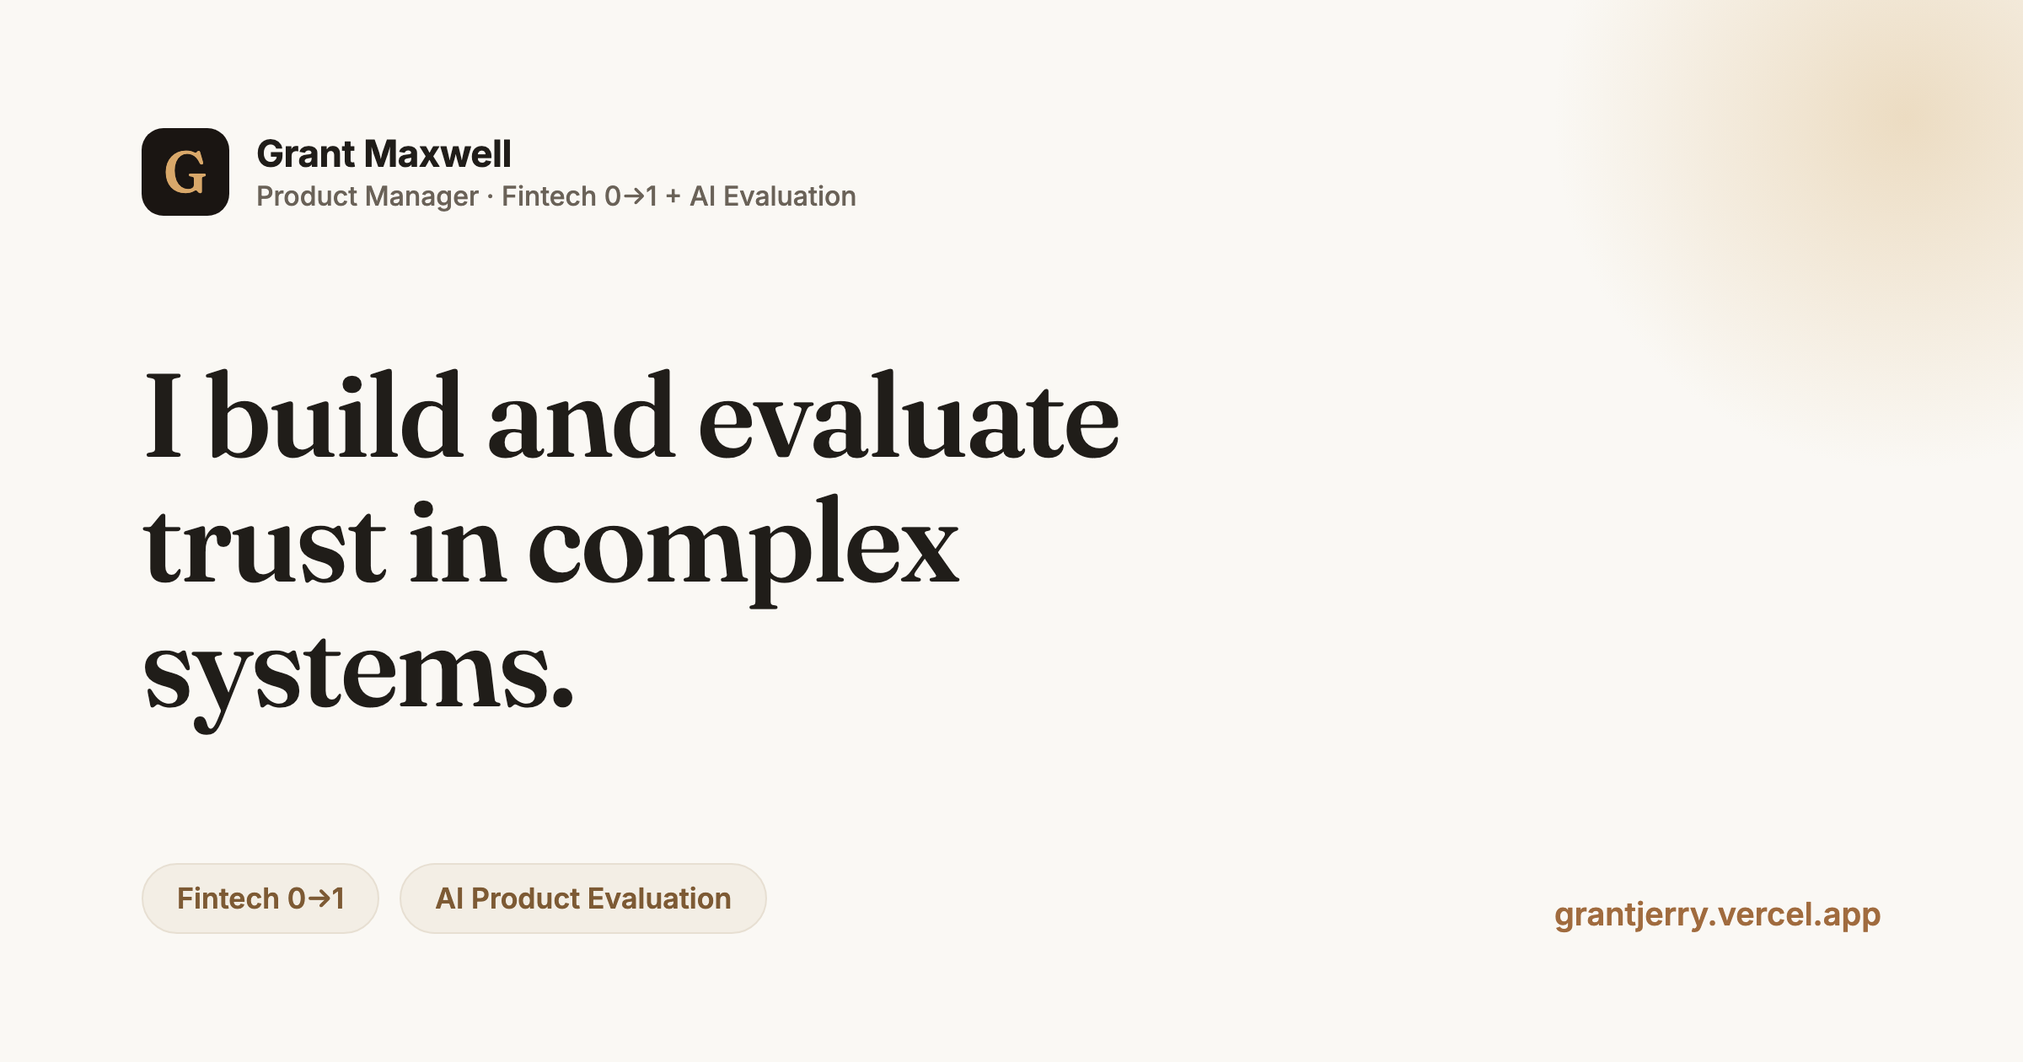
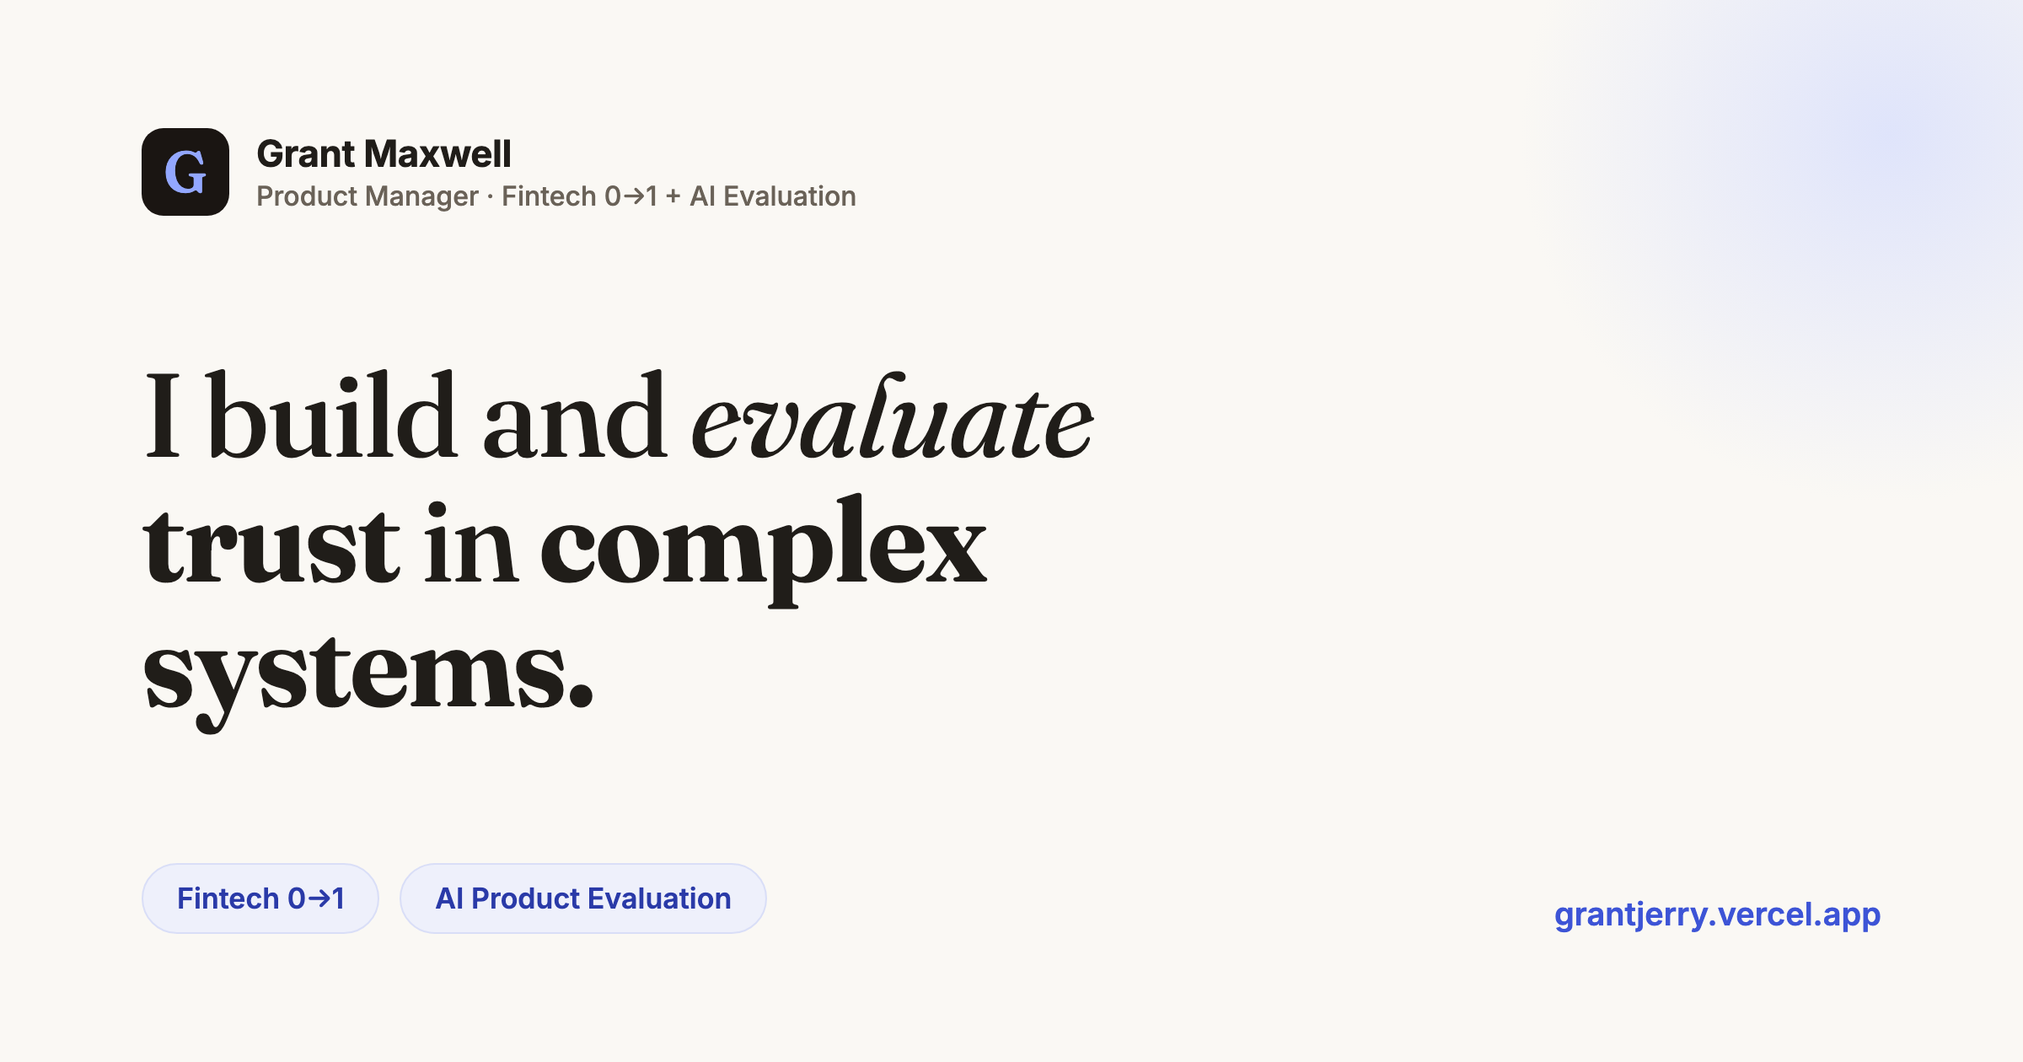
feat: evolve portfolio (Progano-style structure + blue photo-forward visual)
Structure (Option A):
- Builder/Bridge/Trust self-framing triad in the hero
- Outcome-driven case-study titles
- Capabilities ("Where I'm most useful") section
- How-I-work process block + FAQ
- Testimonial slot (placeholder to fill)

Visual (Option B):
- Indigo-blue accent (kept the warm paper bg to avoid a clone)
- Mixed-weight/italic Fraunces headline
- Photo-forward hero (photo slot at assets/photo.jpg)
- Regenerated blue favicon + OG image

diff --git a/index.html b/index.html
@@ -19,7 +19,7 @@
   <link rel="apple-touch-icon" href="/assets/icon-180.png" />
   <link rel="preconnect" href="https://fonts.googleapis.com" />
   <link rel="preconnect" href="https://fonts.gstatic.com" crossorigin />
-  <link href="https://fonts.googleapis.com/css2?family=Fraunces:opsz,wght@9..144,400;9..144,560&family=Inter:wght@400;500;600;700&display=swap" rel="stylesheet" />
+  <link href="https://fonts.googleapis.com/css2?family=Fraunces:ital,opsz,wght@0,9..144,400..700;1,9..144,400..700&family=Inter:wght@400;500;600;700&display=swap" rel="stylesheet" />
   <link rel="stylesheet" href="/styles/main.css" />
 </head>
 <body>
@@ -28,29 +28,36 @@
       <a class="brand" href="/">Grant Maxwell</a>
       <button class="nav-toggle" id="navToggle" aria-label="Menu">☰</button>
       <div class="nav-links" id="navLinks">
+        <a href="#capabilities">Capabilities</a>
         <a href="#work">Work</a>
-        <a href="#about">About</a>
-        <a href="#skills">Skills</a>
-        <a class="nav-cta" href="#contact">Contact</a>
+        <a href="#approach">Approach</a>
+        <a href="#faq">FAQ</a>
+        <a class="nav-cta" href="#contact">Connect</a>
       </div>
     </div>
   </nav>
 
+  <!-- Hero -->
   <header class="hero">
     <div class="wrap">
-      <p class="eyebrow reveal">Product Manager · Fintech 0→1 + AI Evaluation</p>
-      <h1 class="reveal">I build and evaluate trust in complex systems.</h1>
-      <p class="lead reveal">From a user's net worth to an AI model's output, I turn messy, high-stakes systems into
-        products people can rely on. Right now I'm owning <strong>Arzìqi</strong> — a wealth command center for African
-        owner-operators — from concept to launch.</p>
-      <div class="hero-chips reveal">
-        <span class="chip"><span class="dot"></span>Fintech 0→1</span>
-        <span class="chip"><span class="dot"></span>AI Product Evaluation</span>
-        <span class="chip"><span class="dot"></span>Research → Design → Delivery</span>
-      </div>
-      <div class="hero-cta reveal">
-        <a class="btn btn-primary" href="/arziqi">View the Arzìqi case study →</a>
-        <a class="btn btn-ghost" href="#contact">Get in touch</a>
+      <div class="hero-grid">
+        <div>
+          <p class="eyebrow reveal">Product Manager · Fintech 0→1 + AI Evaluation</p>
+          <h1 class="reveal">I build and <span class="i">evaluate</span> <span class="b">trust</span> in <span class="b">complex systems.</span></h1>
+          <div class="triad reveal">
+            <div class="row"><span class="k">Builder</span><span class="v">I take products from concept to launch — research, design, and delivery.</span></div>
+            <div class="row"><span class="k">Bridge</span><span class="v">I sit between the founder's vision, the engineers, and the people who'll actually use it.</span></div>
+            <div class="row"><span class="k">Trust</span><span class="v">I care most about whether people can rely on what we ship — a user's net worth, or an AI's output.</span></div>
+          </div>
+          <div class="hero-cta reveal">
+            <a class="btn btn-primary" href="/arziqi">View the Arzìqi case study →</a>
+            <a class="btn btn-ghost" href="#contact">Get in touch</a>
+          </div>
+        </div>
+        <div class="hero-photo reveal">
+          <!-- Add your photo as /assets/photo.jpg (portrait, ~4:5). Placeholder shown until then. -->
+          <div class="ph">Add your photo →<br />assets/photo.jpg</div>
+        </div>
       </div>
     </div>
   </header>
@@ -69,15 +76,58 @@
     </div>
   </section>
 
-  <!-- Get to know me -->
-  <section style="padding-top:20px;">
+  <!-- Capabilities -->
+  <section id="capabilities">
     <div class="wrap">
-      <p class="section-label reveal">Get to know me &amp; my work</p>
-      <div class="navgrid reveal">
-        <a class="navtile" href="#about"><span class="ic">👋</span><span><span class="t">About me &amp; how I work</span><span class="d">The switcher story, and how I operate</span></span><span class="arr">→</span></a>
-        <a class="navtile" href="#work"><span class="ic">📌</span><span><span class="t">Selected work</span><span class="d">Arzìqi &amp; AI model evaluation</span></span><span class="arr">→</span></a>
-        <a class="navtile" href="#skills"><span class="ic">🧰</span><span><span class="t">What I do</span><span class="d">Product · AI evaluation · craft</span></span><span class="arr">→</span></a>
-        <a class="navtile" href="#contact"><span class="ic">✉</span><span><span class="t">Let's talk</span><span class="d">Open to PM roles in fintech &amp; AI</span></span><span class="arr">→</span></a>
+      <p class="section-label reveal">Capabilities</p>
+      <h2 class="reveal" style="margin-bottom:28px;">Where I'm most useful.</h2>
+      <div class="caps">
+        <div class="cap reveal"><div class="ic">🧭</div><h3>Product 0→1</h3><p>User research, roadmap and prioritization, PRDs, and taking a concept all the way to launch.</p></div>
+        <div class="cap reveal"><div class="ic">🎨</div><h3>Design &amp; UX</h3><p>Design systems, prototyping, and the experience on the surface — I own the craft, not just the spec.</p></div>
+        <div class="cap reveal"><div class="ic">🛡</div><h3>Ingestion &amp; data trust</h3><p>Source, evidence, and freshness on every value; reconciliation and multi-source financial data.</p></div>
+        <div class="cap reveal"><div class="ic">🤖</div><h3>AI evaluation</h3><p>Model quality assessment, hallucination detection, and human-in-the-loop judgment of AI output.</p></div>
+      </div>
+    </div>
+  </section>
+
+  <!-- Selected work -->
+  <section id="work" style="padding-top:0;">
+    <div class="wrap">
+      <p class="section-label reveal">Selected work</p>
+      <p class="lead reveal" style="max-width:60ch;margin:-4px 0 28px;">Two projects, one thread. Click into each for
+        the role I played, the decisions I made, and what came of them.</p>
+      <div class="work-grid">
+        <a class="card card-featured reveal" href="/arziqi">
+          <span class="kicker">Case study · Fintech 0→1</span>
+          <h3>Turning scattered finances into one trusted view</h3>
+          <p class="role">Arzìqi — wealth command center · Product Manager (owner) · pre-launch</p>
+          <p>Brought in at concept — before any frontend existed — to own the product end-to-end. Made trust a
+            first-class product concept: source, evidence, and freshness on every value, one honest net-worth view, and
+            a design system built from scratch.</p>
+          <div class="tags">
+            <span class="tag">0→1 ownership</span>
+            <span class="tag">Design system</span>
+            <span class="tag">Ingestion &amp; trust</span>
+            <span class="tag">Entity model</span>
+          </div>
+          <span class="more">Read the case study →</span>
+        </a>
+
+        <a class="card reveal" href="/ai-evaluation">
+          <span class="kicker">Case study · AI Evaluation</span>
+          <h3>Catching the failures that hide behind confident AI</h3>
+          <p class="role">LLM evaluation · Anthropic (via Turing) · remote</p>
+          <p>Evaluated AI-generated Rust code for correctness, completeness, and production-readiness; ran comparative
+            analysis of LLM outputs to catch hallucinations, instruction-following gaps, and reasoning errors, and
+            delivered structured feedback that improved model reliability and developer usability.</p>
+          <div class="tags">
+            <span class="tag">Model quality</span>
+            <span class="tag">Hallucination detection</span>
+            <span class="tag">Human-in-the-loop</span>
+            <span class="tag">Comparative analysis</span>
+          </div>
+          <span class="more">Read the case study →</span>
+        </a>
       </div>
     </div>
   </section>
@@ -94,100 +144,55 @@
     </div>
   </section>
 
-  <!-- Selected work -->
-  <section id="work">
+  <!-- Approach / How I work -->
+  <section id="approach">
     <div class="wrap">
-      <p class="section-label reveal">Selected work</p>
-      <p class="lead reveal" style="max-width:60ch;margin:-4px 0 28px;">Two projects, one thread. Click into each for
-        the role I played, the decisions I made, and what came of them.</p>
-      <div class="work-grid">
-        <a class="card card-featured reveal" href="/arziqi">
-          <span class="kicker">Case study · Fintech 0→1</span>
-          <h3>Arzìqi — a wealth command center for African owner-operators</h3>
-          <p class="role">Product Manager (owner) · pre-launch · research → design → delivery</p>
-          <p>Brought in at concept — before any frontend existed — to own the product end-to-end. Made trust a
-            first-class product concept: source, evidence, and freshness on every value, one honest net-worth view, and
-            a design system built from scratch.</p>
-          <div class="tags">
-            <span class="tag">0→1 ownership</span>
-            <span class="tag">Design system</span>
-            <span class="tag">Ingestion &amp; trust</span>
-            <span class="tag">Entity model</span>
-          </div>
-          <span class="more">Read the case study →</span>
-        </a>
+      <p class="section-label reveal">How I work</p>
+      <h2 class="reveal" style="margin-bottom:30px;">The way I plug in.</h2>
+      <div class="process">
+        <div class="step reveal"><div class="n">01</div><h3>Start with the evidence</h3><p>Research and the real problem before pixels — I want to know how people actually behave, not assume it.</p></div>
+        <div class="step reveal"><div class="n">02</div><h3>Design the system, not just screens</h3><p>A coherent, trustworthy whole — the system under the hood and the experience on the surface.</p></div>
+        <div class="step reveal"><div class="n">03</div><h3>Ship, instrument, refine</h3><p>Real data, honest states, and iteration — I'd rather ship the truth than a prettier version of it.</p></div>
+      </div>
+    </div>
+  </section>
 
-        <a class="card reveal" href="/ai-evaluation">
-          <span class="kicker">Case study · AI Evaluation</span>
-          <h3>AI Model Evaluation — Large Language Models</h3>
-          <p class="role">Anthropic (via Turing) · remote</p>
-          <p>Evaluated AI-generated Rust code for correctness, completeness, and production-readiness; ran comparative
-            analysis of LLM outputs to catch hallucinations, instruction-following gaps, and reasoning errors, and
-            delivered structured feedback that improved model reliability and developer usability.</p>
-          <div class="tags">
-            <span class="tag">Model quality</span>
-            <span class="tag">Hallucination detection</span>
-            <span class="tag">Human-in-the-loop</span>
-            <span class="tag">Comparative analysis</span>
-          </div>
-          <span class="more">Read the case study →</span>
-        </a>
+  <!-- Testimonial -->
+  <section id="words" style="padding-top:0;">
+    <div class="wrap">
+      <p class="section-label reveal">In their words</p>
+      <div class="quote reveal">
+        <!-- TODO (Grant): replace with a real quote — ask Mensaah (founder) or a founding engineer for one or two lines. -->
+        <p>“Add a short testimonial here — one or two lines from the founder or a founding engineer about working with you.”</p>
+        <div class="by">— Name, Role · <span class="muted">to add</span></div>
       </div>
     </div>
   </section>
 
   <!-- About -->
-  <section id="about">
+  <section id="about" style="padding-top:0;">
     <div class="wrap narrow about">
       <p class="section-label reveal">About</p>
-      <p class="reveal">I'm a product manager who came into tech from <strong>chemical engineering</strong>. I started
-        the Product Management track at <strong>AltSchool Africa</strong> and wanted real 0→1 experience — so I joined
-        Arzìqi at the concept stage, before there was a frontend, and owned it through <strong>research, brand, design,
-        and delivery</strong>, helping recruit the founding engineering team along the way.</p>
+      <p class="reveal">I came into tech from <strong>chemical engineering</strong>. I started the Product Management
+        track at <strong>AltSchool Africa</strong> and wanted real 0→1 experience — so I joined Arzìqi at the concept
+        stage, before there was a frontend, and owned it through <strong>research, brand, design, and delivery</strong>,
+        helping recruit the founding engineering team along the way.</p>
       <p class="reveal">I care about products that are honest with the people using them — especially where the stakes
         are high. Money and machine intelligence are two places where a system that looks confident but can't be
         trusted does real damage. That's the thread between the fintech product I build and the AI models I evaluate.</p>
     </div>
   </section>
 
-  <!-- Skills -->
-  <section id="skills" style="padding-top:0;">
-    <div class="wrap">
-      <p class="section-label reveal">What I do</p>
-      <div class="skills reveal">
-        <div>
-          <h4>Product</h4>
-          <ul>
-            <li>0→1 product ownership</li>
-            <li>User research</li>
-            <li>Roadmap &amp; prioritization</li>
-            <li>PRDs &amp; user stories</li>
-            <li>Design systems</li>
-            <li>Cross-functional delivery</li>
-            <li>KPI definition</li>
-          </ul>
-        </div>
-        <div>
-          <h4>AI &amp; evaluation</h4>
-          <ul>
-            <li>AI product evaluation</li>
-            <li>Model quality assessment</li>
-            <li>Hallucination detection</li>
-            <li>Human-in-the-loop systems</li>
-            <li>Prompt &amp; output evaluation</li>
-            <li>Comparative analysis</li>
-          </ul>
-        </div>
-        <div>
-          <h4>Craft &amp; tools</h4>
-          <ul>
-            <li>UX/UI design &amp; prototyping</li>
-            <li>Figma</li>
-            <li>Git / GitLab workflows</li>
-            <li>Jira · Notion · Slack</li>
-            <li>Analytics &amp; experimentation</li>
-          </ul>
-        </div>
+  <!-- FAQ -->
+  <section id="faq" style="padding-top:0;">
+    <div class="wrap narrow">
+      <p class="section-label reveal">FAQ</p>
+      <h2 class="reveal" style="margin-bottom:16px;">A few questions people usually ask.</h2>
+      <div class="faq reveal">
+        <details><summary>What kind of roles are you looking for?</summary><p>Product Manager roles in fintech and AI — ideally 0→1 or early-stage, where I can own research through delivery. Remote or hybrid.</p></details>
+        <details><summary>Do you just write specs, or do you build?</summary><p>Both. On Arzìqi I owned the user research, the UI/UX and design system, the roadmap, and delivery — and helped recruit the founding engineers. I'm a designer-PM who ships.</p></details>
+        <details><summary>What's your background?</summary><p>Chemical engineering → tech → the Product Management track at AltSchool Africa → owning Arzìqi from concept to pre-launch. The AI-evaluation work (Anthropic via Turing) sits alongside it.</p></details>
+        <details><summary>Where are you based?</summary><p>Remote, in Nigeria — working across time zones with distributed teams.</p></details>
       </div>
     </div>
   </section>

diff --git a/styles/main.css b/styles/main.css
@@ -11,8 +11,9 @@
   --muted:     #6a6258;
   --faint:     #93897b;
   --line:      #e7dfd2;
-  --accent:    #a06b3e;   /* clay/gold */
-  --accent-2:  #7d5a34;
+  --accent:    #3d54d6;   /* indigo-blue */
+  --accent-2:  #2a3aa8;
+  --accent-lt: #93a7ff;   /* light accent for dark surfaces */
   --sage:      #3f6b3a;
   --dark:      #1a1512;
   --dark-ink:  #f4efe7;
@@ -117,7 +118,7 @@ section { padding: 92px 0; }
 .band .section-label { color: var(--dark-mut); }
 .band h2 { color: var(--dark-ink); }
 .band p { color: var(--dark-mut); font-size: 1.16rem; max-width: 62ch; }
-.band .accent { color: #d9a86a; font-style: normal; }
+.band .accent { color: var(--accent-lt); font-style: normal; }
 
 /* ---------- work cards ---------- */
 .work-grid { display: grid; gap: 22px; }
@@ -193,10 +194,56 @@ a.card:hover { transform: translateY(-3px); box-shadow: var(--shadow); border-co
 .contact h2 { color: var(--dark-ink); }
 .contact p { color: var(--dark-mut); max-width: 46ch; margin: 14px auto 26px; }
 .contact .links { display: flex; gap: 14px; justify-content: center; flex-wrap: wrap; }
-.contact a.btn-primary { background: #d9a86a; color: var(--dark) !important; }
-.contact a.btn-primary:hover { background: #e6bd85; }
+.contact a.btn-primary { background: var(--accent-lt); color: var(--dark) !important; }
+.contact a.btn-primary:hover { background: #b4c4ff; }
 .contact a.btn-ghost { border-color: var(--dark-line); color: var(--dark-ink) !important; }
 footer { padding: 40px 0; color: var(--faint); font-size: .88rem; text-align: center; }
+
+/* ---------- hero: photo-forward + mixed-weight headline ---------- */
+.hero-grid { display: grid; grid-template-columns: 1.12fr .88fr; gap: 48px; align-items: center; }
+.hero h1 { font-weight: 480; }
+.hero h1 .i { font-style: italic; font-weight: 400; }
+.hero h1 .b { font-weight: 680; }
+.hero-photo img {
+  width: 100%; max-width: 360px; aspect-ratio: 4/5; object-fit: cover; margin-left: auto;
+  border-radius: 20px; border: 1px solid var(--line); box-shadow: var(--shadow); background: var(--panel); display: block;
+}
+.hero-photo .ph {
+  width: 100%; max-width: 360px; aspect-ratio: 4/5; margin-left: auto; display: flex; align-items: center; justify-content: center;
+  border-radius: 20px; border: 1px dashed var(--line); background: var(--panel); color: var(--faint); font-size: .88rem; text-align: center; padding: 20px;
+}
+
+/* self-framing triad */
+.triad { margin: 26px 0 30px; display: grid; gap: 13px; max-width: 52ch; }
+.triad .row { display: flex; gap: 12px; }
+.triad .k { font-weight: 700; color: var(--ink); min-width: 74px; }
+.triad .v { color: var(--muted); }
+
+/* capabilities */
+.caps { display: grid; grid-template-columns: repeat(2, 1fr); gap: 18px; }
+.cap { background: var(--surface); border: 1px solid var(--line); border-radius: var(--r); padding: 26px; }
+.cap .ic { font-size: 1.5rem; line-height: 1; }
+.cap h3 { font-family: var(--sans); font-size: 1.1rem; font-weight: 700; margin: 12px 0 8px; letter-spacing: 0; }
+.cap p { color: var(--muted); font-size: .96rem; margin: 0; }
+
+/* process — how I work */
+.process { display: grid; grid-template-columns: repeat(3, 1fr); gap: 24px; }
+.step .n { font-family: var(--serif); font-size: 1.05rem; color: var(--accent); font-weight: 600; }
+.step h3 { font-family: var(--sans); font-size: 1.08rem; font-weight: 700; margin: 6px 0 8px; letter-spacing: 0; }
+.step p { color: var(--muted); font-size: .96rem; margin: 0; }
+
+/* testimonial */
+.quote { background: var(--surface); border: 1px solid var(--line); border-left: 3px solid var(--accent); border-radius: var(--r); padding: 30px 34px; }
+.quote p { font-family: var(--serif); font-size: 1.28rem; line-height: 1.36; color: var(--ink); margin: 0 0 14px; }
+.quote .by { color: var(--muted); font-size: .95rem; font-weight: 500; }
+
+/* faq */
+.faq details { border-bottom: 1px solid var(--line); padding: 18px 0; }
+.faq summary { cursor: pointer; font-weight: 600; font-size: 1.05rem; color: var(--ink); list-style: none; display: flex; justify-content: space-between; align-items: center; gap: 16px; }
+.faq summary::-webkit-details-marker { display: none; }
+.faq summary::after { content: "+"; color: var(--accent); font-size: 1.4rem; font-weight: 400; }
+.faq details[open] summary::after { content: "\2013"; }
+.faq p { color: var(--muted); margin: 12px 0 0; }
 
 /* ---------- "get to know me" nav grid ---------- */
 .navgrid { display: grid; grid-template-columns: 1fr 1fr; gap: 16px; }
@@ -229,6 +276,9 @@ footer { padding: 40px 0; color: var(--faint); font-size: .88rem; text-align: ce
   .decisions, .shots, .map { grid-template-columns: 1fr; }
   .map .arrow { display: none; }
   .navgrid { grid-template-columns: 1fr; }
+  .hero-grid { grid-template-columns: 1fr; }
+  .hero-photo img, .hero-photo .ph { max-width: 300px; margin: 0; }
+  .caps, .process { grid-template-columns: 1fr; }
 }
 @media (max-width: 620px) {
   body { font-size: 16px; }
